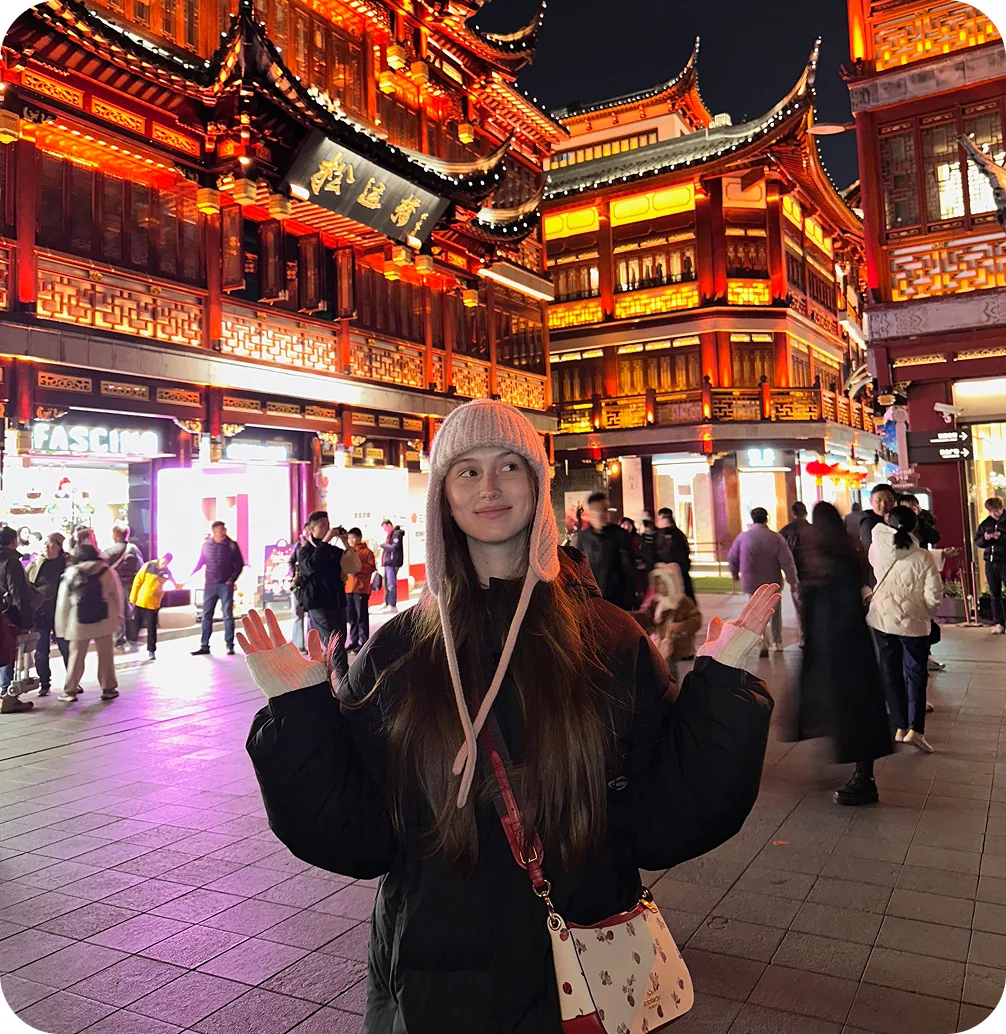
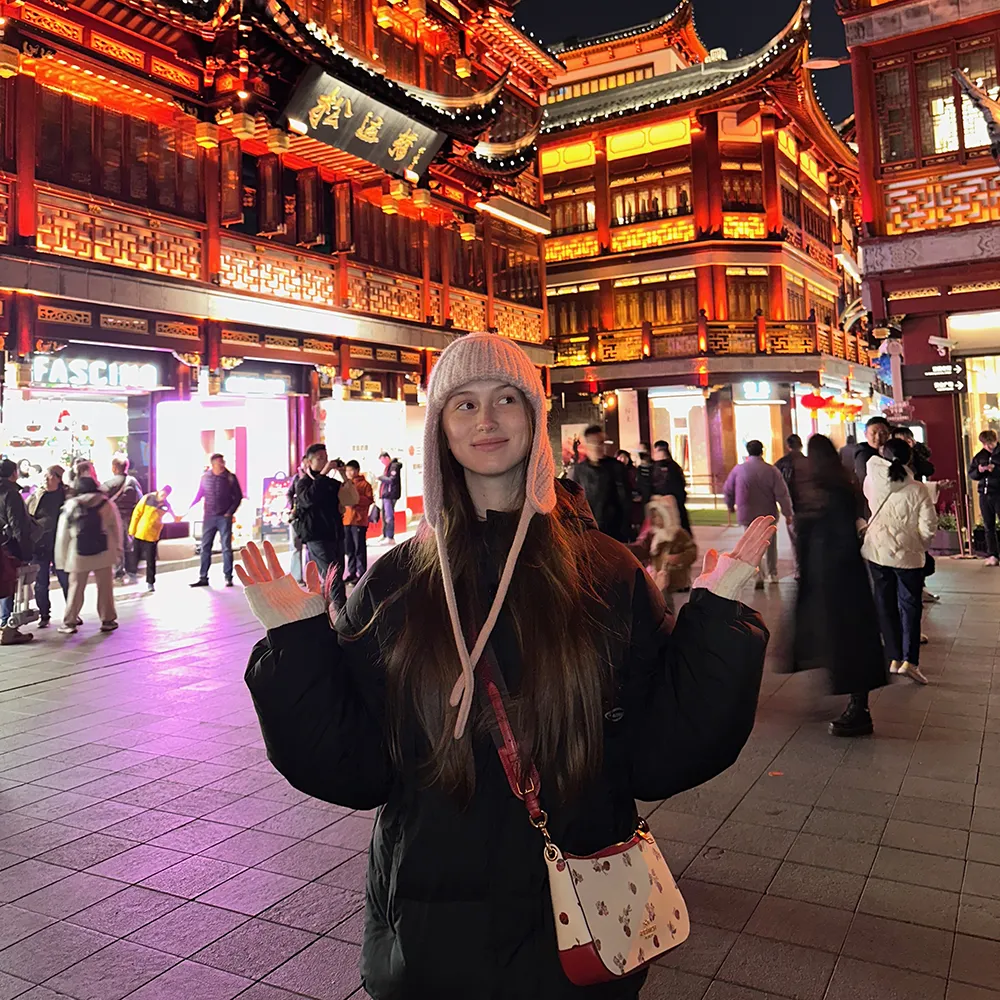
add size hero IMG change Support IMG

diff --git a/src/components/sections/Support.tsx b/src/components/sections/Support.tsx
@@ -3,7 +3,7 @@
 import React from "react";
 import Image from "next/image";
 import { LazyMotion, domAnimation, m } from "framer-motion";
-import SupportImage from "@/assets/support_img.webp";
+import SupportImage from "@/assets/IMG.webp";
 
 // Импортируем готовые анимации из твоего общего файла
 import { 
@@ -65,9 +65,8 @@ const Support: React.FC = () => {
             src={SupportImage}
             alt="Сопровождение при поступлении"
             className="w-full h-auto aspect-[4/5] xl:aspect-auto rounded-[40px] object-cover"
-            sizes="(min-width:1280px) 450px, (min-width:1024px) 350px, 100vw"
             loading="lazy"
-            quality={85}
+            quality={75}
           />
         </m.div>
 

diff --git a/src/components/sections/Hero.tsx b/src/components/sections/Hero.tsx
@@ -76,6 +76,8 @@ return (
           priority
           fetchPriority="high" 
           loading="eager"
+          quality={75}
+          sizes="(max-width: 1024px) 320px, (max-width: 1280px) 384px, 448px"
           className="w-full h-auto aspect-[4/5] xl:aspect-auto rounded-[30px] object-cover transition-all duration-300"
         />
       </div>
